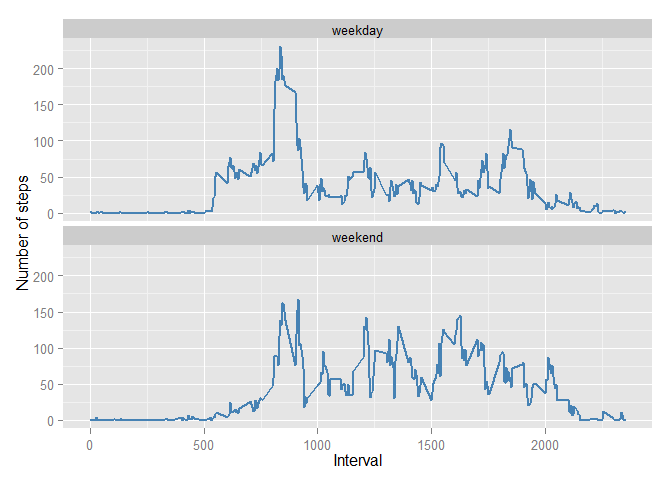
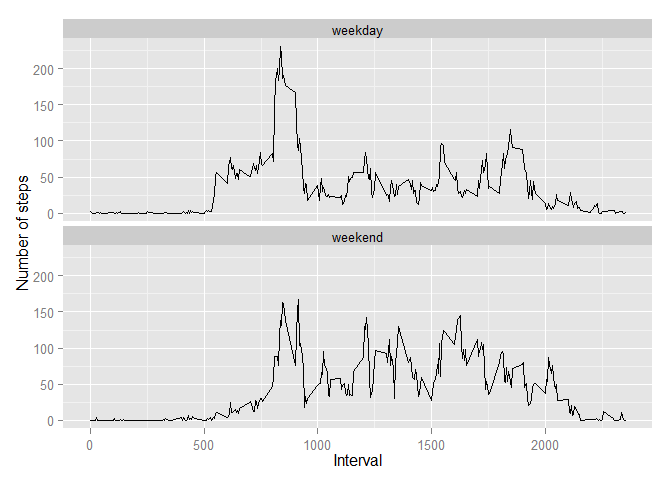
final commit

diff --git a/PA1_template.html b/PA1_template.html
@@ -100,6 +100,7 @@ data_by_day &lt;- aggregate(steps ~ date, data=data, FUN=sum, na.rm=TRUE)</code>
 <li>Make a time series plot (i.e. type = “l”) of the 5-minute interval (x-axis) and the average number of steps taken, averaged across all days (y-axis)</li>
 </ol>
 <pre class="r"><code>data_by_interval &lt;- aggregate(steps ~ interval, data=data, FUN=mean, na.rm=TRUE)
+
 ggplot(data_by_interval, aes(x=interval, y=steps)) +
     geom_line(stat=&quot;identity&quot;) +
     labs(x=&quot;Interval&quot;, y=&quot;Number of steps&quot;) +
@@ -122,26 +123,19 @@ ggplot(data_by_interval, aes(x=interval, y=steps)) +
 <ol start="2" style="list-style-type: decimal">
 <li>Devise a strategy for filling in all of the missing values in the dataset. The strategy does not need to be sophisticated. For example, you could use the mean/median for that day, or the mean for that 5-minute interval, etc.</li>
 </ol>
-<pre class="r"><code>#I will use the means for the 5-minute intervals as fillers for missing values.</code></pre>
+<pre class="r"><code>#I will use the means for the 5-minute intervals rounded to the nearest whole
+#number.</code></pre>
 <ol start="3" style="list-style-type: decimal">
 <li>Create a new dataset that is equal to the original dataset but with the missing data filled in.</li>
 </ol>
-<pre class="r"><code>new_data &lt;- data                                                 
+<pre class="r"><code>new_data &lt;- data      
+
 for (i in 1:nrow(new_data)) {
     if (is.na(new_data$steps[i])) {
-        new_data$steps[i] &lt;- ceiling(data_by_interval[which(new_data$interval[i] 
-                                    == data_by_interval$interval), ]$steps)
+        new_data$steps[i] &lt;- round(data_by_interval[which(new_data$interval[i] 
+                                    == data_by_interval$interval), ]$steps,0)
     }
-}
-
-head(new_data)</code></pre>
-<pre><code>##   steps       date interval
-## 1     2 2012-10-01        0
-## 2     1 2012-10-01        5
-## 3     1 2012-10-01       10
-## 4     1 2012-10-01       15
-## 5     1 2012-10-01       20
-## 6     3 2012-10-01       25</code></pre>
+}</code></pre>
 <ol start="4" style="list-style-type: decimal">
 <li>Make a histogram of the total number of steps taken each day and Calculate and report the mean and median total number of steps taken per day. Do these values differ from the estimates from the first part of the assignment? What is the impact of imputing missing data on the estimates of the total daily number of steps?</li>
 </ol>
@@ -151,19 +145,20 @@ head(new_data)</code></pre>
 <pre class="r"><code>new_by_day &lt;- aggregate(steps ~ date, data=new_data, FUN=sum, na.rm=TRUE)
 
 qplot(x=date, y=steps, data=new_by_day, 
-    stat = 'summary', fun.y = 'sum', geom='bar') +
-    labs(title='Total steps taken per day', x='Day', y='Steps')</code></pre>
[1 lines of base64/hex data omitted]
+    stat = &quot;identity&quot;, geom = &quot;bar&quot;) +
+    labs(title=&quot;Total steps taken per day&quot;, x=&quot;Day&quot;, y=&quot;Number of steps&quot;)</code></pre>
[1 lines of base64/hex data omitted]
 <ul>
 <li>Mean total number of steps taken per day</li>
 </ul>
 <pre class="r"><code>mean(new_by_day$steps)</code></pre>
-<pre><code>## [1] 10784.92</code></pre>
+<pre><code>## [1] 10765.64</code></pre>
 <ul>
 <li>Median total number of steps taken per day</li>
 </ul>
 <pre class="r"><code>median(new_by_day$steps)</code></pre>
-<pre><code>## [1] 10909</code></pre>
+<pre><code>## [1] 10762</code></pre>
+<p>After imputing the missing data, there is a slight decrease in the new mean of total steps taken per day and the new median of total steps taken per day compare to the old values.</p>
 </div>
 <div id="are-there-differences-in-activity-patterns-between-weekdays-and-weekends" class="section level2">
 <h2>Are there differences in activity patterns between weekdays and weekends?</h2>
@@ -178,6 +173,7 @@ qplot(x=date, y=steps, data=new_by_day,
         &quot;weekday&quot;
     }
 }
+
 new_data$day_of_week &lt;- as.factor(sapply(new_data$date, day_of_week))</code></pre>
 <ol start="2" style="list-style-type: decimal">
 <li>Make a panel plot containing a time series plot (i.e. type = “l”) of the 5-minute interval (x-axis) and the average number of steps taken, averaged across all weekday days or weekend days (y-axis). See the README file in the GitHub repository to see an example of what this plot should look like using simulated data.</li>
@@ -186,10 +182,14 @@ new_data$day_of_week &lt;- as.factor(sapply(new_data$date, day_of_week))</code><
                              FUN=mean, na.rm=TRUE)
 
 ggplot(new_by_interval, aes(x=interval, y=steps)) + 
-    geom_line(color=&quot;steelblue&quot;, size=1) + 
+    geom_line(stat = &quot;identity&quot;) +
     facet_wrap(~ day_of_week, nrow=2, ncol=1) +
     labs(x=&quot;Interval&quot;, y=&quot;Number of steps&quot;)</code></pre>
[2 lines of base64/hex data omitted]
+<div id="conculsion" class="section level3">
+<h3>Conculsion</h3>
+<p>We can see that activity on the weekends starts later in the day, weekday has the greatest peak from all steps intervals, but weekend has more peaks that are above 100.</p>
+</div>
 <div id="information-about-the-analysis-environment" class="section level3">
 <h3>Information about the analysis environment</h3>
 <pre class="r"><code>print(sessionInfo(), locale=FALSE)</code></pre>

diff --git a/PA1_template.md b/PA1_template.md
@@ -65,6 +65,7 @@ and the average number of steps taken, averaged across all days (y-axis)
 
 ```r
 data_by_interval <- aggregate(steps ~ interval, data=data, FUN=mean, na.rm=TRUE)
+
 ggplot(data_by_interval, aes(x=interval, y=steps)) +
     geom_line(stat="identity") +
     labs(x="Interval", y="Number of steps") +
@@ -106,32 +107,22 @@ mean/median for that day, or the mean for that 5-minute interval, etc.
 
 
 ```r
-#I will use the means for the 5-minute intervals as fillers for missing values.
+#I will use the means for the 5-minute intervals rounded to the nearest whole
+#number.
 ```
 
 3. Create a new dataset that is equal to the original dataset but with the 
 missing data filled in.
 
 ```r
-new_data <- data                                                 
+new_data <- data      
+
 for (i in 1:nrow(new_data)) {
     if (is.na(new_data$steps[i])) {
-        new_data$steps[i] <- ceiling(data_by_interval[which(new_data$interval[i] 
-                                    == data_by_interval$interval), ]$steps)
+        new_data$steps[i] <- round(data_by_interval[which(new_data$interval[i] 
+                                    == data_by_interval$interval), ]$steps,0)
     }
 }
-
-head(new_data)
-```
-
-```
-##   steps       date interval
-## 1     2 2012-10-01        0
-## 2     1 2012-10-01        5
-## 3     1 2012-10-01       10
-## 4     1 2012-10-01       15
-## 5     1 2012-10-01       20
-## 6     3 2012-10-01       25
 ```
 
 4. Make a histogram of the total number of steps taken each day and Calculate 
@@ -146,8 +137,8 @@ of steps?
 new_by_day <- aggregate(steps ~ date, data=new_data, FUN=sum, na.rm=TRUE)
 
 qplot(x=date, y=steps, data=new_by_day, 
-    stat = 'summary', fun.y = 'sum', geom='bar') +
-    labs(title='Total steps taken per day', x='Day', y='Steps')
+    stat = "identity", geom = "bar") +
+    labs(title="Total steps taken per day", x="Day", y="Number of steps")
 ```
 
 ![](./PA1_template_files/figure-html/unnamed-chunk-12-1.png) 
@@ -159,7 +150,7 @@ mean(new_by_day$steps)
 ```
 
 ```
-## [1] 10784.92
+## [1] 10765.64
 ```
 
 * Median total number of steps taken per day
@@ -169,8 +160,12 @@ median(new_by_day$steps)
 ```
 
 ```
-## [1] 10909
+## [1] 10762
 ```
+
+After imputing the missing data, there is a slight decrease in the new mean of 
+total steps taken per day and the new median of total steps taken per day
+compare to the old values.
 
 ## Are there differences in activity patterns between weekdays and weekends?
 For this part the weekdays() function may be of some help here. Use the dataset 
@@ -187,6 +182,7 @@ day_of_week <- function(date) {
         "weekday"
     }
 }
+
 new_data$day_of_week <- as.factor(sapply(new_data$date, day_of_week))
 ```
 
@@ -201,12 +197,17 @@ new_by_interval <- aggregate(steps ~ interval+day_of_week, data=new_data,
                              FUN=mean, na.rm=TRUE)
 
 ggplot(new_by_interval, aes(x=interval, y=steps)) + 
-    geom_line(color="steelblue", size=1) + 
+    geom_line(stat = "identity") +
     facet_wrap(~ day_of_week, nrow=2, ncol=1) +
     labs(x="Interval", y="Number of steps")
 ```
 
 ![](./PA1_template_files/figure-html/unnamed-chunk-16-1.png) 
+
+### Conculsion
+We can see that activity on the weekends starts later in the day, weekday has 
+the greatest peak from all steps intervals, but weekend has more peaks that are 
+above 100.
 
 ### Information about the analysis environment
 
